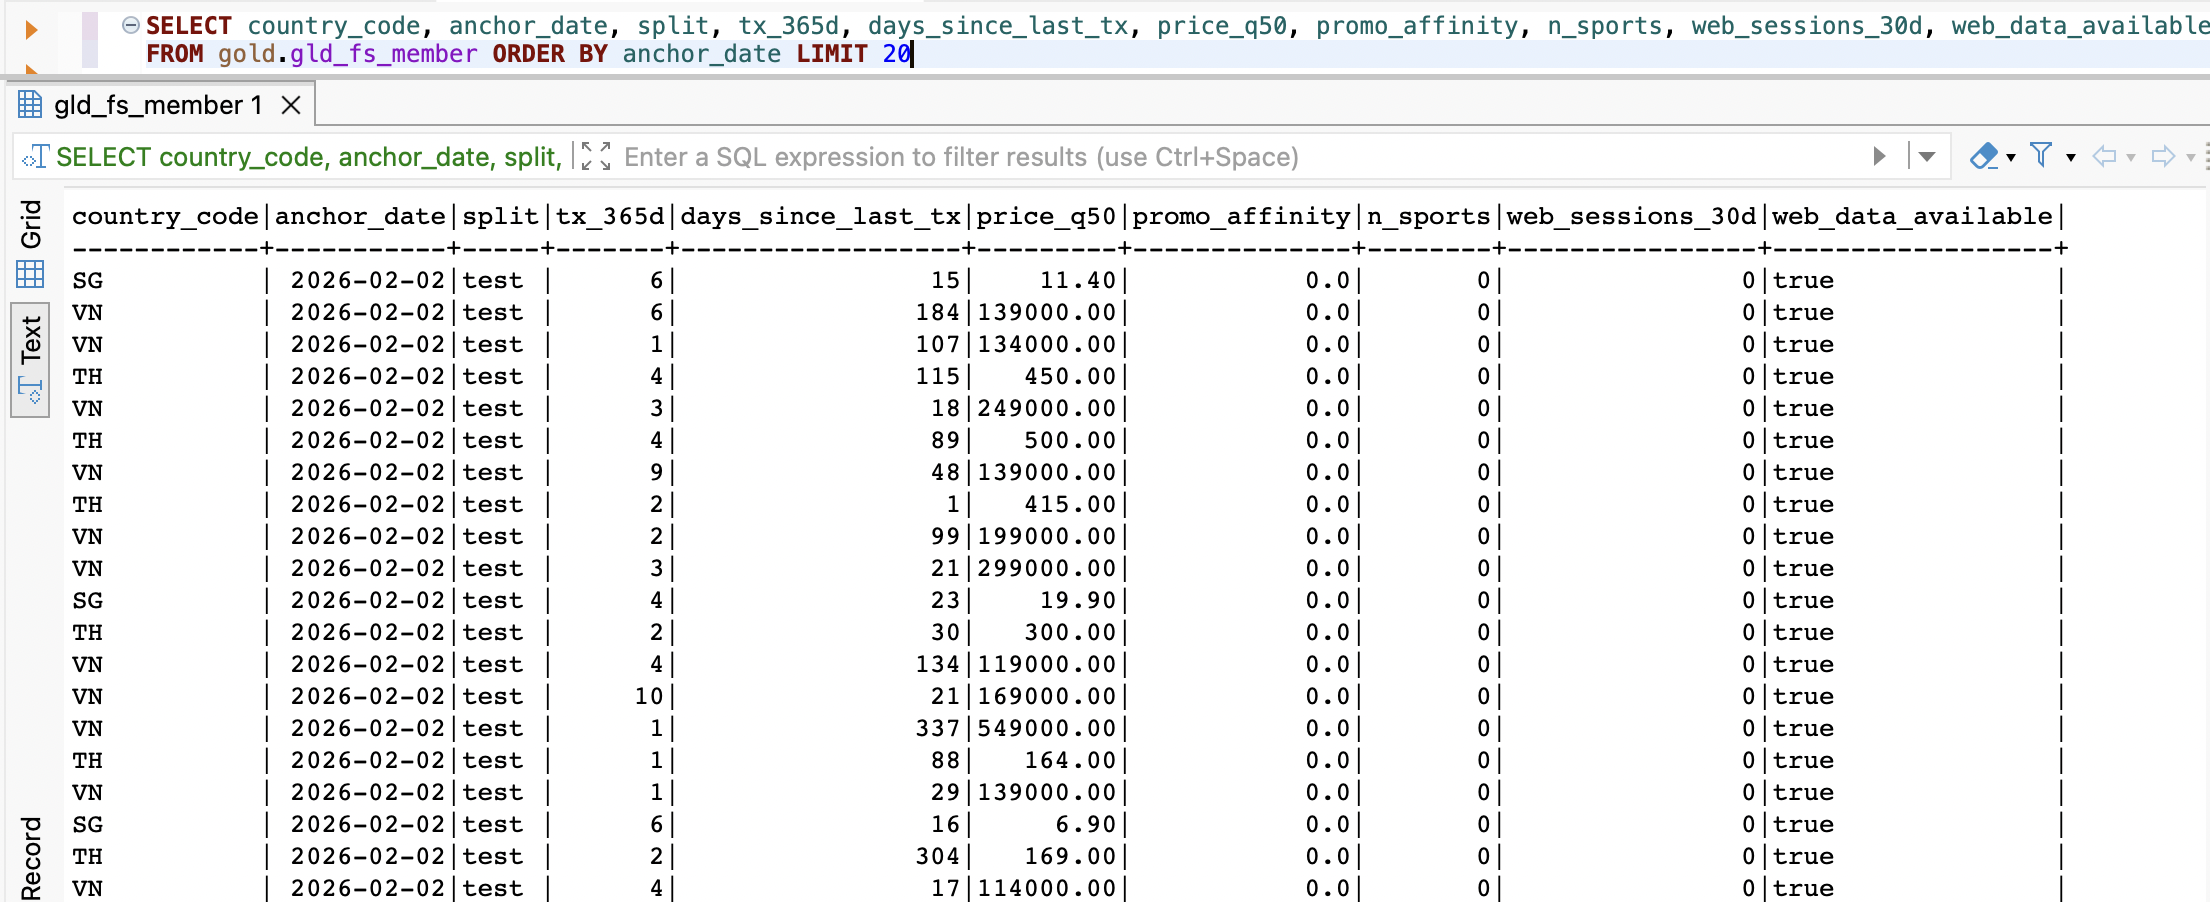
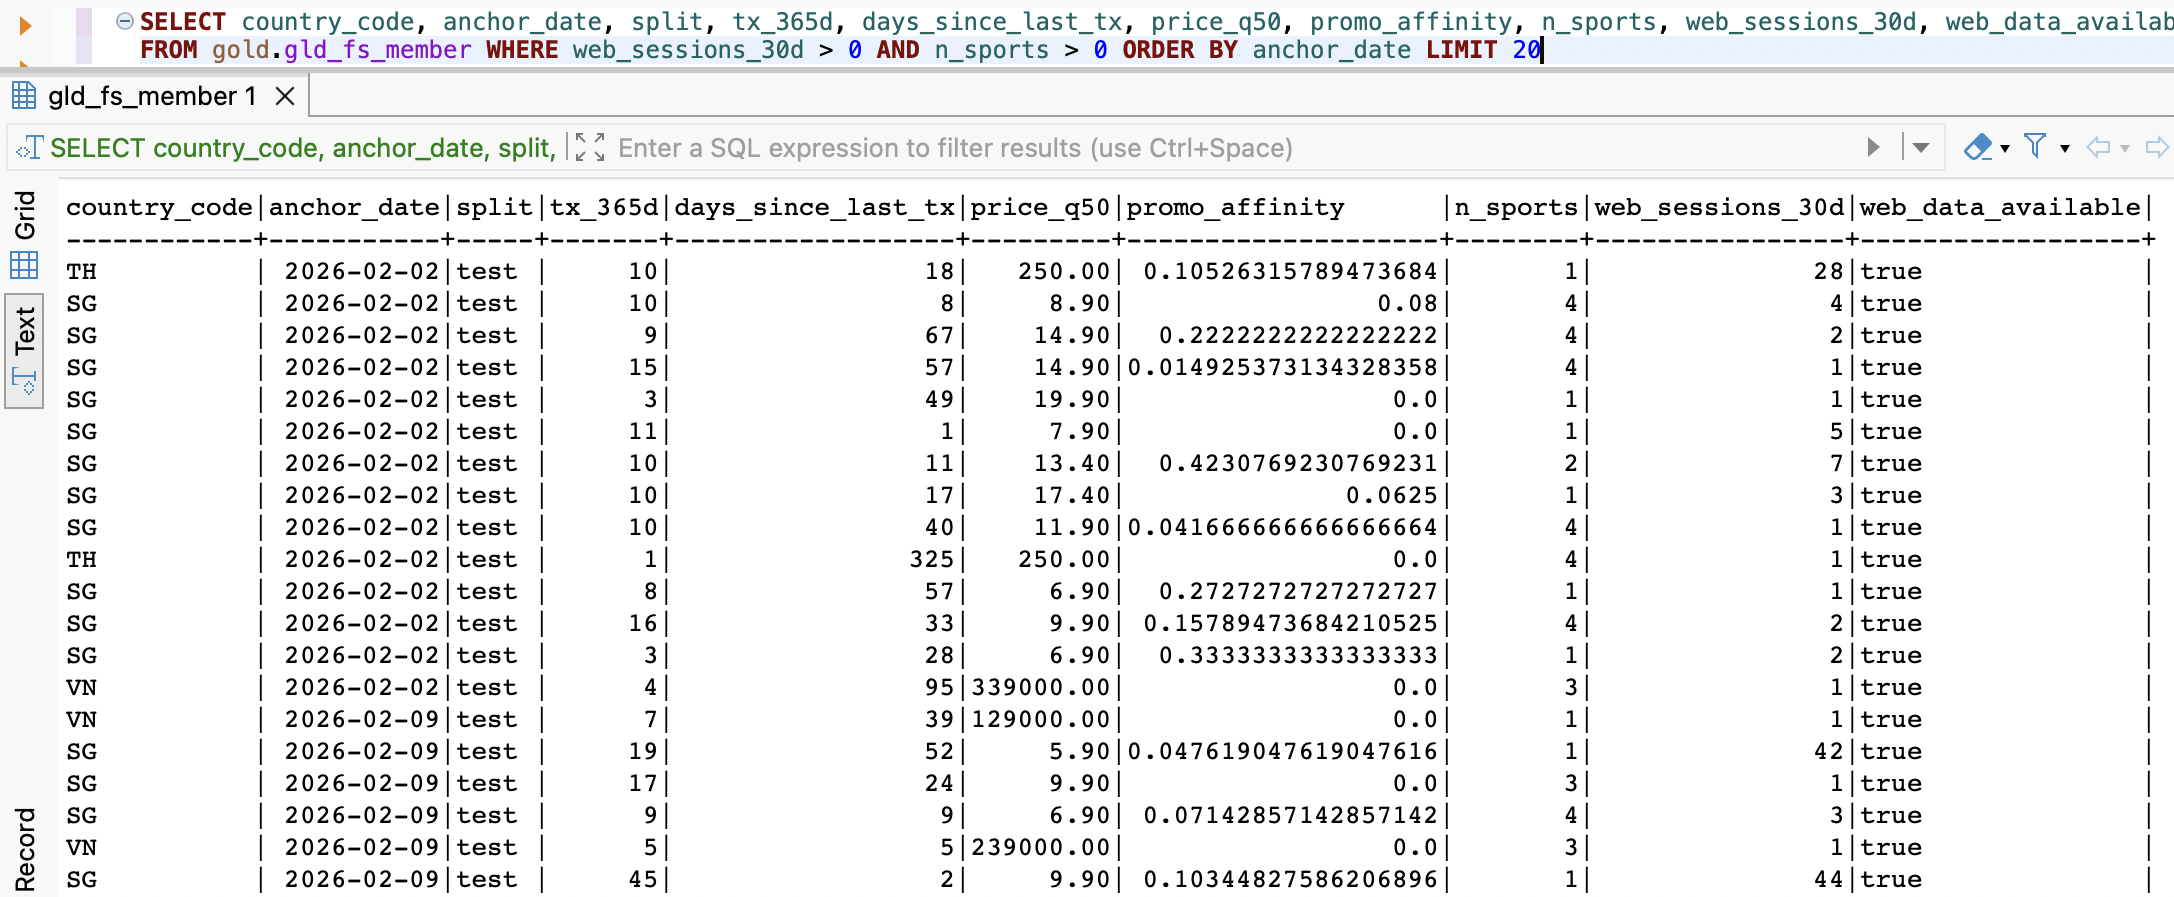
figures: member feature entity screenshot on anchors with web and sport signals so that every feature column is populated; README query updated (#44)

Changed region(s): [[0.0, 0.2185, 0.9862, 0.9989], [0.0, 0.0, 1.0, 0.1873], [0.7088, 0.4994, 0.7397, 0.5307]]

diff --git a/docs/figures/README.md b/docs/figures/README.md
@@ -31,7 +31,7 @@ identifiers:
 |---|---|---|
 | `dbeaver_gates_by_country.png` | `SELECT * FROM audit.gates_by_country ORDER BY country, year;` | Go / no-go gates per country × year: member link, item match, price coverage, members with ≥ 2 transactions, decision |
 | `dbeaver_quarantine_sales_line.png` | `SELECT * FROM quarantine.qrt_sales_line_by_reason ORDER BY country_code, lines DESC;` (the extract's `GROUP BY country_code, reason` of `quarantine.qrt_sales_line`) | Sales lines refused by `slv_fact_sales_line`, by country and reason (nothing is dropped silently) |
-| `dbeaver_gold_fs_member.png` | `SELECT country_code, anchor_date, split, tx_365d, days_since_last_tx, price_q50, promo_affinity, n_sports, web_sessions_30d, web_data_available FROM gold.gld_fs_member ORDER BY anchor_date LIMIT 20;` (extract = test split, no `member_id`) | Member feature entity at the anchor (one row per used anchor, point-in-time) |
+| `dbeaver_gold_fs_member.png` | `SELECT country_code, anchor_date, split, tx_365d, days_since_last_tx, price_q50, promo_affinity, n_sports, web_sessions_30d, web_data_available FROM gold.gld_fs_member WHERE web_sessions_30d > 0 AND n_sports > 0 ORDER BY anchor_date LIMIT 20;` (extract = test split, no `member_id`; the filter picks anchors with web and sport signals so that every feature column is populated) | Member feature entity at the anchor (one row per used anchor, point-in-time) |
 | `dbeaver_explain_asof.png` | the query in `explain_analyze_asof_price.txt` prefixed with `EXPLAIN ANALYZE`, plan shown in the Value panel (taken 2026-10-29, laptop lakehouse, VN) | ASOF JOIN plan for the price at the anchor: 0.123 s, `Asof Join` LEFT on item, country and anchor date, median per model |
 | `dbeaver_leakage_ledger.png` | `SELECT * FROM quarantine.leakage_violations;` (expected: no rows) and `SELECT * FROM audit.stitching_coverage ORDER BY 1, 2;` | QC-6 ledger empty; stitching coverage before / after per country |
 
